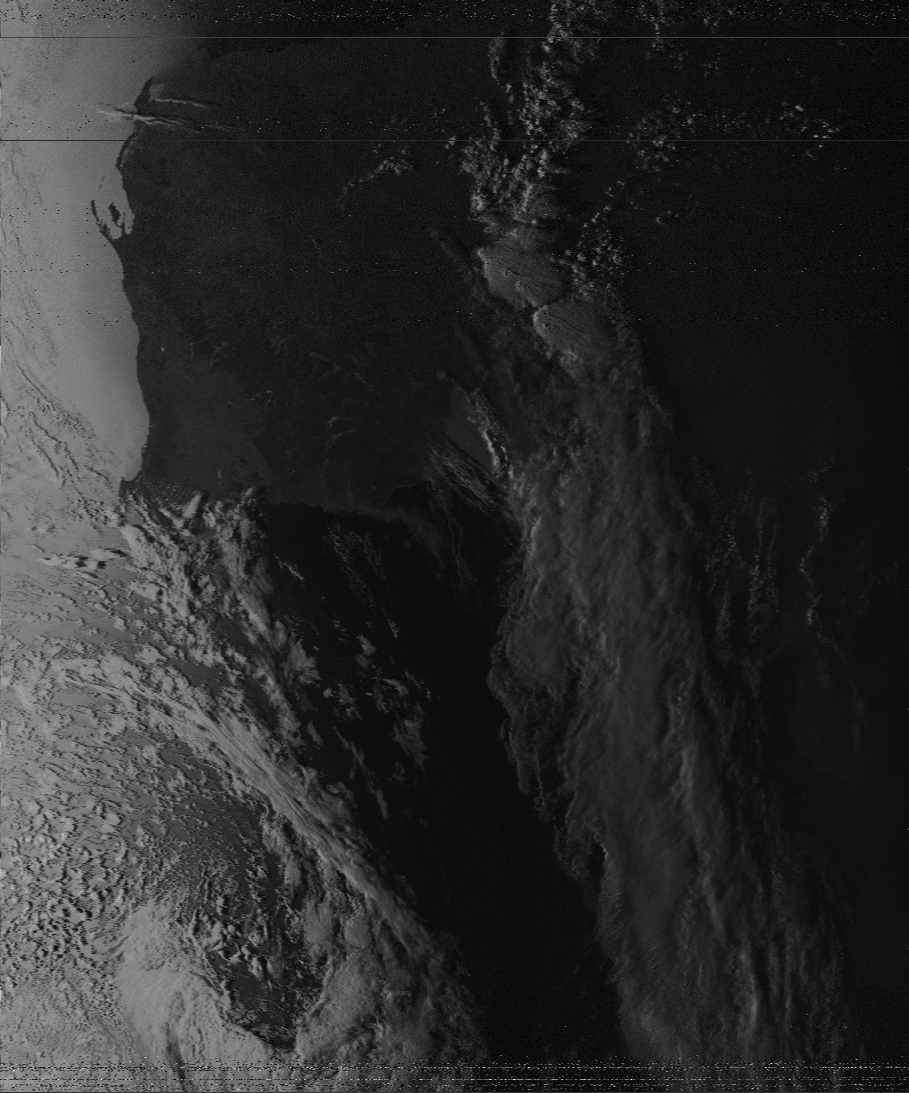
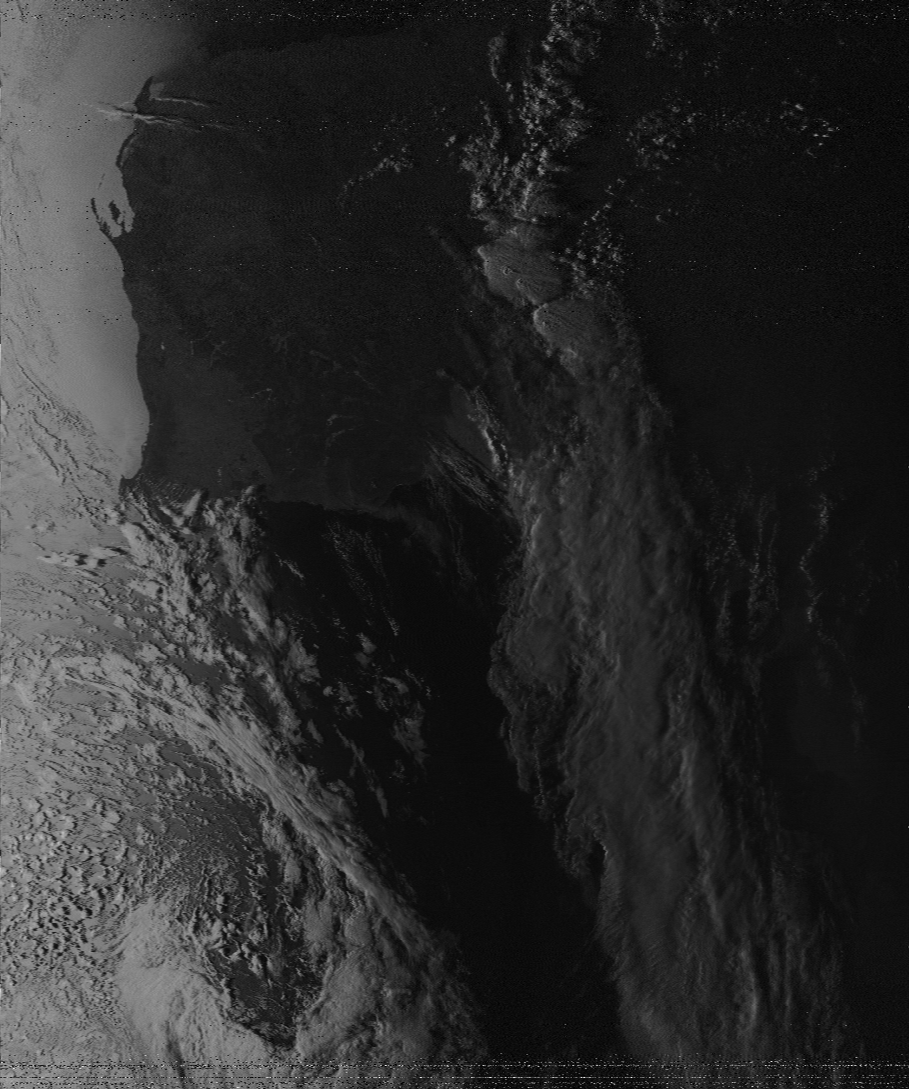
Bug Fix: Stopped extra lines from being added

Changed region(s): [[0.0, 0.6869, 1.0, 1.0], [0.5237, 0.1249, 0.6161, 0.1873], [0.6469, 0.2185, 0.6777, 0.2498]]

diff --git a/p.py b/p.py
@@ -207,6 +207,9 @@ if len(syncs):
         sync_lines.append(i)
         pixel_set = pixels[sync['index']:sync['index'] + sync['nitems']]
         pixel_set = [list(line) for line in grouper(2080, pixel_set, pixel_set[-1])]
+        if all(x == pixel_set[-1][0] for x in pixel_set[-1]):
+            print('extra_line')
+            del pixel_set[-1]
         i += len(pixel_set)
         new_pixels.extend(pixel_set)
 
@@ -279,9 +282,9 @@ if len(syncs) and sync_ratio > 0.05:
     a_space = [sum(line)/len(line) for line in a_space]
     b_space = [line[space_mark_range['B'][0]+10:space_mark_range['B'][1]-7] for line in pixels]
     b_space = [sum(line)/len(line) for line in b_space]
-    plt.plot(a_space)
-    plt.plot(b_space)
-    plt.show()
+    # plt.plot(a_space)
+    # plt.plot(b_space)
+    # plt.show()
 
 raw_images = {}
 raw_images['F'] = pixels
